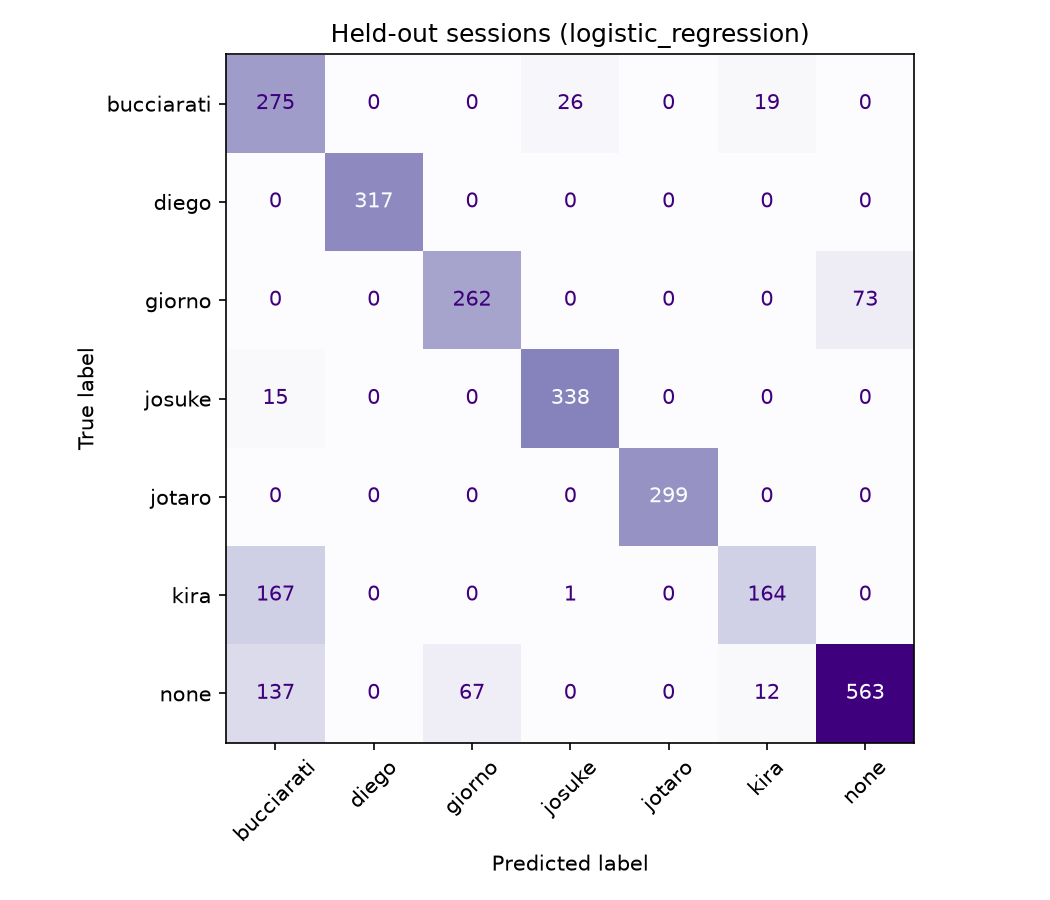
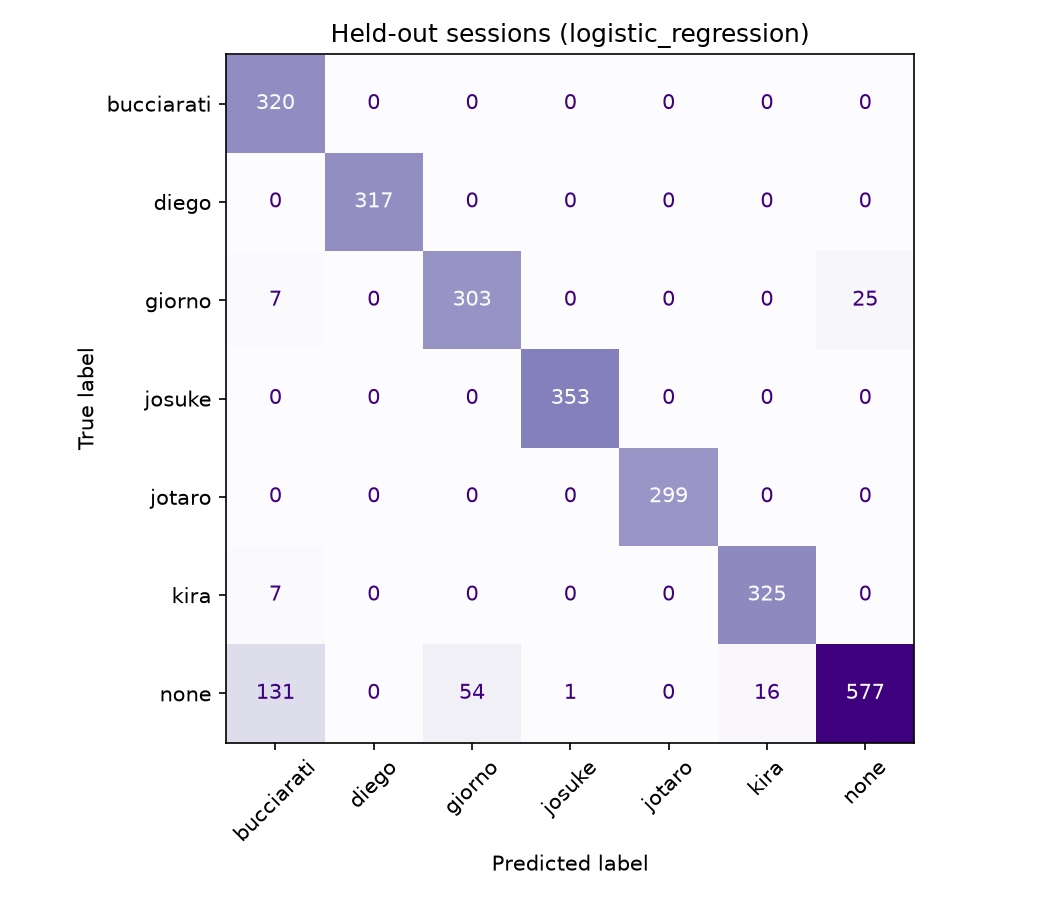
Recover missed hands with wrist-region crops: 81% -> 91%
- Second Hand Landmarker runs on an enlarged crop around any pose wrist with no hand assigned;
  hands whose wrist lands far from the pose wrist are rejected
- Extraction prints per-clip hand detection rates
- Leave-one-session-out: accuracy 81.1% -> 91.2%, macro-F1 0.822 -> 0.927,
  Kira -> Bucciarati 167 -> 7 frames
- README results table, docs/DEVLOG.md entry, regenerated reports

diff --git a/dyu/landmarks.py b/dyu/landmarks.py
@@ -68,9 +68,47 @@ class Detector:
             running_mode=vision.RunningMode.VIDEO,
             num_hands=num_hands,
         )
+        # Second hand model for zoomed-in wrist crops. In full-body shots hands are only a few
+        # dozen pixels wide and the full-frame detector often misses them; enlarging the area
+        # around a wrist the pose model already found recovers most of those misses.
+        crop_opts = vision.HandLandmarkerOptions(
+            base_options=mp_python.BaseOptions(model_asset_path=str(paths["hand"])),
+            running_mode=vision.RunningMode.IMAGE,
+            num_hands=1,
+            min_hand_detection_confidence=0.3,
+            min_hand_presence_confidence=0.3,
+        )
         self.pose = vision.PoseLandmarker.create_from_options(pose_opts)
         self.hands = vision.HandLandmarker.create_from_options(hand_opts)
+        self.hand_crop = vision.HandLandmarker.create_from_options(crop_opts)
         self._last_ts = -1
+        self.crop_recoveries = 0  # how many hands the crop pass found (for stats)
+
+    CROP_SIZE = 256  # pixels the wrist crop is enlarged to
+
+    def _detect_hand_in_crop(self, rgb, wrist, index, torso_px):
+        """Look for one hand around a wrist. Returns (21, 2) pixel coords in the full frame, or None."""
+        H, W = rgb.shape[:2]
+        center = index  # the pose "index" point sits at the knuckles, roughly mid-hand
+        side = max(48.0, 0.9 * torso_px)
+        x0, y0 = int(max(0, center[0] - side / 2)), int(max(0, center[1] - side / 2))
+        x1, y1 = int(min(W, center[0] + side / 2)), int(min(H, center[1] + side / 2))
+        cw, ch = x1 - x0, y1 - y0
+        if cw < 16 or ch < 16:
+            return None
+        crop = rgb[y0:y1, x0:x1]
+        scale = self.CROP_SIZE / max(cw, ch)
+        if scale > 1:
+            crop = cv2.resize(crop, None, fx=scale, fy=scale, interpolation=cv2.INTER_CUBIC)
+        res = self.hand_crop.detect(mp.Image(image_format=mp.ImageFormat.SRGB, data=np.ascontiguousarray(crop)))
+        if not res.hand_landmarks:
+            return None
+        pts = np.array([[x0 + lm.x * cw, y0 + lm.y * ch] for lm in res.hand_landmarks[0]], dtype=np.float32)
+        if pts.shape != (N_HAND, 2):
+            return None
+        if np.linalg.norm(pts[0] - wrist) > 0.5 * torso_px:  # found some other hand; reject
+            return None
+        return pts
 
     def process(self, frame_bgr, timestamp_ms):
         """Run both models on one BGR frame. Timestamps must increase (VIDEO mode)."""
@@ -106,11 +144,28 @@ class Detector:
                 out.pose = pose
                 out.pose_px = np.array([[lm.x * w, lm.y * h] for lm in lms], dtype=np.float32)
                 out.left_hand, out.right_hand = assign_hands(pose[:, :2], hands_hu)
+                self._recover_missing_hands(rgb, out)
         return out
+
+    def _recover_missing_hands(self, rgb, out):
+        """Second pass: for each wrist with no hand assigned, search a zoomed crop around it."""
+        px, h = out.pose_px, rgb.shape[0]
+        torso = float(np.linalg.norm((px[11] + px[12]) / 2 - (px[23] + px[24]) / 2))
+        if torso < 10:
+            return
+        for side, wrist_i, index_i in (("left_hand", 15, 19), ("right_hand", 16, 20)):
+            if getattr(out, side) is not None or out.pose[wrist_i, 2] < 0.3:
+                continue
+            hand_px = self._detect_hand_in_crop(rgb, px[wrist_i], px[index_i], torso)
+            if hand_px is not None:
+                setattr(out, side, hand_px / h)  # pixels -> frame-height units
+                out.hands_px.append(hand_px)
+                self.crop_recoveries += 1
 
     def close(self):
         self.pose.close()
         self.hands.close()
+        self.hand_crop.close()
 
     def __enter__(self):
         return self

diff --git a/scripts/extract_landmarks.py b/scripts/extract_landmarks.py
@@ -79,7 +79,12 @@ def main():
             print(f"- warning: '{label}' isn't in config.yaml stands (still extracting it)")
         rows, no_pose = extract_video(path, label, session, ex["stride"], ex["trim_fraction"], ex["max_height"])
         flag = "  <- check framing!" if rows and no_pose > len(rows) * 0.2 else ""
-        print(f"- {path.name:28s} {label:12s} {session}  kept {len(rows):4d} frames, no body found in {no_pose}{flag}")
+        lh_i = len(META_COLUMNS) + RAW_COLUMNS.index("lh_present")
+        rh_i = len(META_COLUMNS) + RAW_COLUMNS.index("rh_present")
+        lh = sum(r[lh_i] for r in rows) / max(1, len(rows))
+        rh = sum(r[rh_i] for r in rows) / max(1, len(rows))
+        print(f"- {path.name:28s} {label:12s} {session}  kept {len(rows):4d} frames, no body in {no_pose:3d}, "
+              f"hands L {lh:4.0%} R {rh:4.0%}{flag}")
         all_rows += rows
 
     if not all_rows:

diff --git a/docs/DEVLOG.md b/docs/DEVLOG.md
@@ -1,0 +1,59 @@
+# Dev log
+
+Experiments on the JoJo pose classifier, newest first. All scores are leave-one-session-out
+(3 sessions, 2,735 frames, 7 classes, one person) unless noted.
+
+## 2026-11-04: Wrist-crop fallback for missed hands
+
+**Problem.** Baseline was 81.1% accuracy, macro-F1 0.822. Kira had recall 0.49: 167 of 332 Kira
+frames were predicted as Bucciarati. Bucciarati precision was 0.46, partly because 137 `none`
+frames were also called Bucciarati. Hand detection rates showed why: in full-body shots the
+hands are tiny and the full-frame Hand Landmarker missed them. Kira's second hand was found in
+0% of s2 frames and 29% of s3. Without both hands, Kira's L-shaped finger frame is invisible
+and the body alone looks like Bucciarati.
+
+**Change** (`dyu/landmarks.py`, `scripts/extract_landmarks.py`):
+- A second Hand Landmarker (IMAGE mode, 1 hand, detection and presence confidence 0.3).
+- After the normal pass, for each side with no hand and pose wrist visibility >= 0.3: a square
+  crop centred on the pose index point, side = max(48 px, 0.9 x torso length), clipped to the
+  frame, enlarged to 256 px with cubic interpolation, and run through the second detector.
+- Points are mapped back to the full frame. A hand whose wrist is more than 0.5 x torso length
+  from the pose wrist is rejected (it's probably the other hand).
+- Extraction now prints the share of frames with each hand found, per clip.
+
+**Hand detection, L / R share of frames:**
+
+| Clip | Before | After |
+| --- | --- | --- |
+| kira_s1 | 100% / 100% | 100% / 100% |
+| kira_s2 | 100% / 0% | 100% / 99% |
+| kira_s3 | 100% / 29% | 100% / 100% |
+| bucciarati_s1 | 100% / 100% | 100% / 100% |
+| bucciarati_s2 | 0% / 98% | 100% / 100% |
+| bucciarati_s3 | 100% / 50% | 100% / 100% |
+
+All other pose clips are now 100% / 100%, except Jotaro's left hand at 0% (it's in a pocket,
+as expected). The `none` clips are 75–100%.
+
+**Results** (logistic regression, best of LR vs RF both times):
+
+| | Before | After |
+| --- | --- | --- |
+| Accuracy | 81.1% | 91.2% |
+| Macro-F1 | 0.822 | 0.927 |
+| Per session (s1 / s2 / s3) | 0.93 / 0.66 / 0.85 | 0.99 / 0.83 / 0.92 |
+| Kira recall | 0.49 | 0.98 |
+| Bucciarati precision | 0.46 | 0.69 |
+| Kira → Bucciarati | 167 | 7 |
+| none → Bucciarati | 137 | 131 |
+
+**Still weak.**
+- `none` recall is 0.74. Normal movement is still read as Bucciarati (131 frames) and Giorno
+  (54). Of the 131, 94 come from `none_s2`, so one session's "normal movement" looks like
+  Bucciarati's floating wrist-cross. Next: look at what `none_s2` contains, record more varied
+  `none` clips, and check whether the app's confidence threshold and voting window already hide
+  these frames live.
+- Session s2 is still the weakest fold (0.83).
+- The extra detector costs time per frame when a hand is missed. That doesn't matter for offline
+  extraction, but the live app's frame rate hasn't been measured yet.
+- Still one person; no cross-person evaluation.

diff --git a/README.md b/README.md
@@ -27,6 +27,18 @@ Design choices worth knowing:
 - **Leave-one-session-out evaluation.** Neighbouring frames are near-duplicates, so a random split inflates accuracy. Each recording session is held out in turn.
 - **Mirror augmentation.** Every training frame is also flipped left/right, so it works whether or not the camera mirrors the image.
 - **Hands matched to wrists**, not to MediaPipe's left/right label, which flips with mirroring.
+- **Wrist-crop fallback for missed hands.** In full-body shots a hand is only a few dozen pixels wide, so the full-frame hand detector often misses it. For any wrist the pose model found but no hand was matched to, the app crops a square around that hand, enlarges it to 256 px and runs a second hand detector on it. A detected hand is rejected if its wrist is far from the pose wrist.
+
+## Results
+
+7 classes (6 poses + `none`), 2,735 frames from 21 clips, one person, 3 recording sessions. Scores are leave-one-session-out: each session is held out in turn and predicted by a model trained on the other two.
+
+| Version | Accuracy | Macro-F1 | Kira recall | Kira → Bucciarati | none → Bucciarati |
+| --- | --- | --- | --- | --- | --- |
+| Baseline | 81.1% | 0.822 | 0.49 | 167 frames | 137 frames |
+| + wrist-crop hand fallback | **91.2%** | **0.927** | 0.98 | 7 frames | 131 frames |
+
+Both rows use logistic regression, which beat the random forest each time. Hands found in Kira and Bucciarati clips went from as low as 0–50% per clip to 99–100%. Diego, Jotaro and Josuke are at F1 1.00. The weakest class is now `none` (recall 0.74): normal movement still gets read as Bucciarati, mostly in one session. Experiment notes: [docs/DEVLOG.md](docs/DEVLOG.md).
 
 ## Setup (Windows, Python 3.11)
 
@@ -59,7 +71,7 @@ none_s1.mp4    none_s2.mp4    none_s3.mp4     <- normal movement, so Stands don'
 python scripts/extract_landmarks.py
 ```
 
-Writes `data/landmarks.csv` and prints how many frames each clip contributed. A clip flagged "check framing" had too many frames where no body was found.
+Writes `data/landmarks.csv` and prints how many frames each clip contributed and in what share of them each hand was found (`hands L __% R __%`). A clip flagged "check framing" had too many frames where no body was found.
 
 ## 3. Train
 

diff --git a/CLAUDE.md b/CLAUDE.md
@@ -72,8 +72,8 @@ Dataset lives in `datasets/asl_citizen/` (gitignored). Non-commercial research u
 ## Roadmap
 ### Part 1 — JoJo poses
 1. [x] Record 6 poses + none, 3 sessions each (data/videos)
-2. [ ] Raise accuracy: baseline 81.1% / macro-F1 0.822 (2026-11-04). Weak spot: Kira → Bucciarati,
-       caused by missed hands in full-body shots
+2. [ ] Raise accuracy: 81.1% → 91.2% / macro-F1 0.927 with the wrist-crop hand fallback
+       (2026-11-04). Weak spot now: `none` → Bucciarati (131 frames, mostly none_s2)
 3. [ ] Polish effects (Stand fade-in, positioning per pose)
 
 ### Part 2 — ASL
